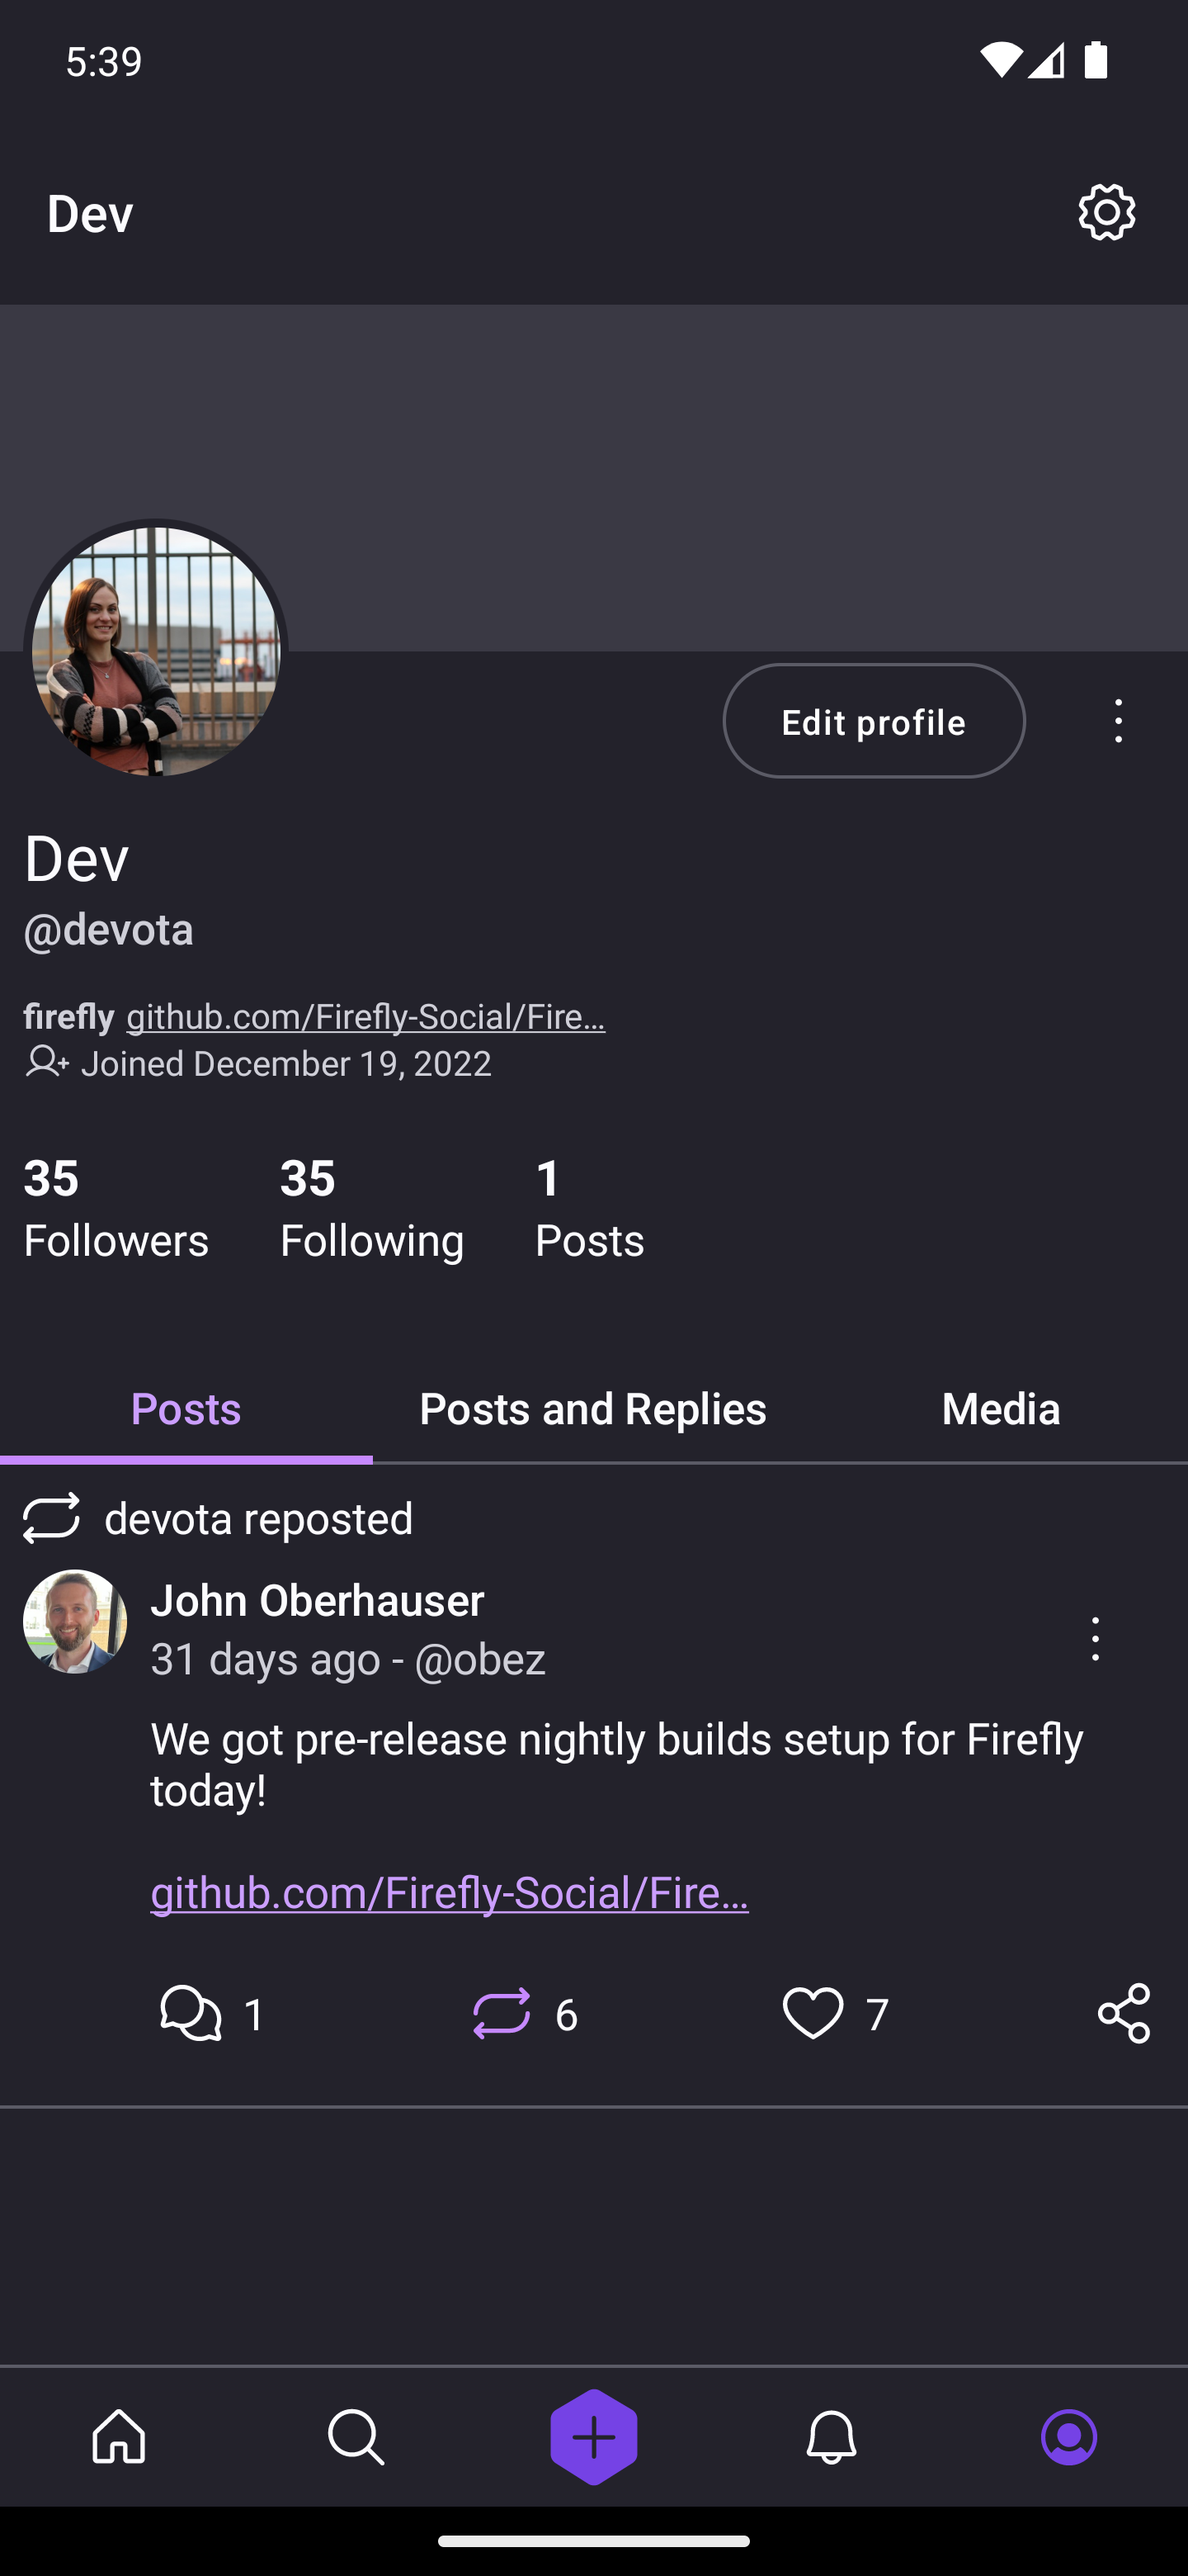
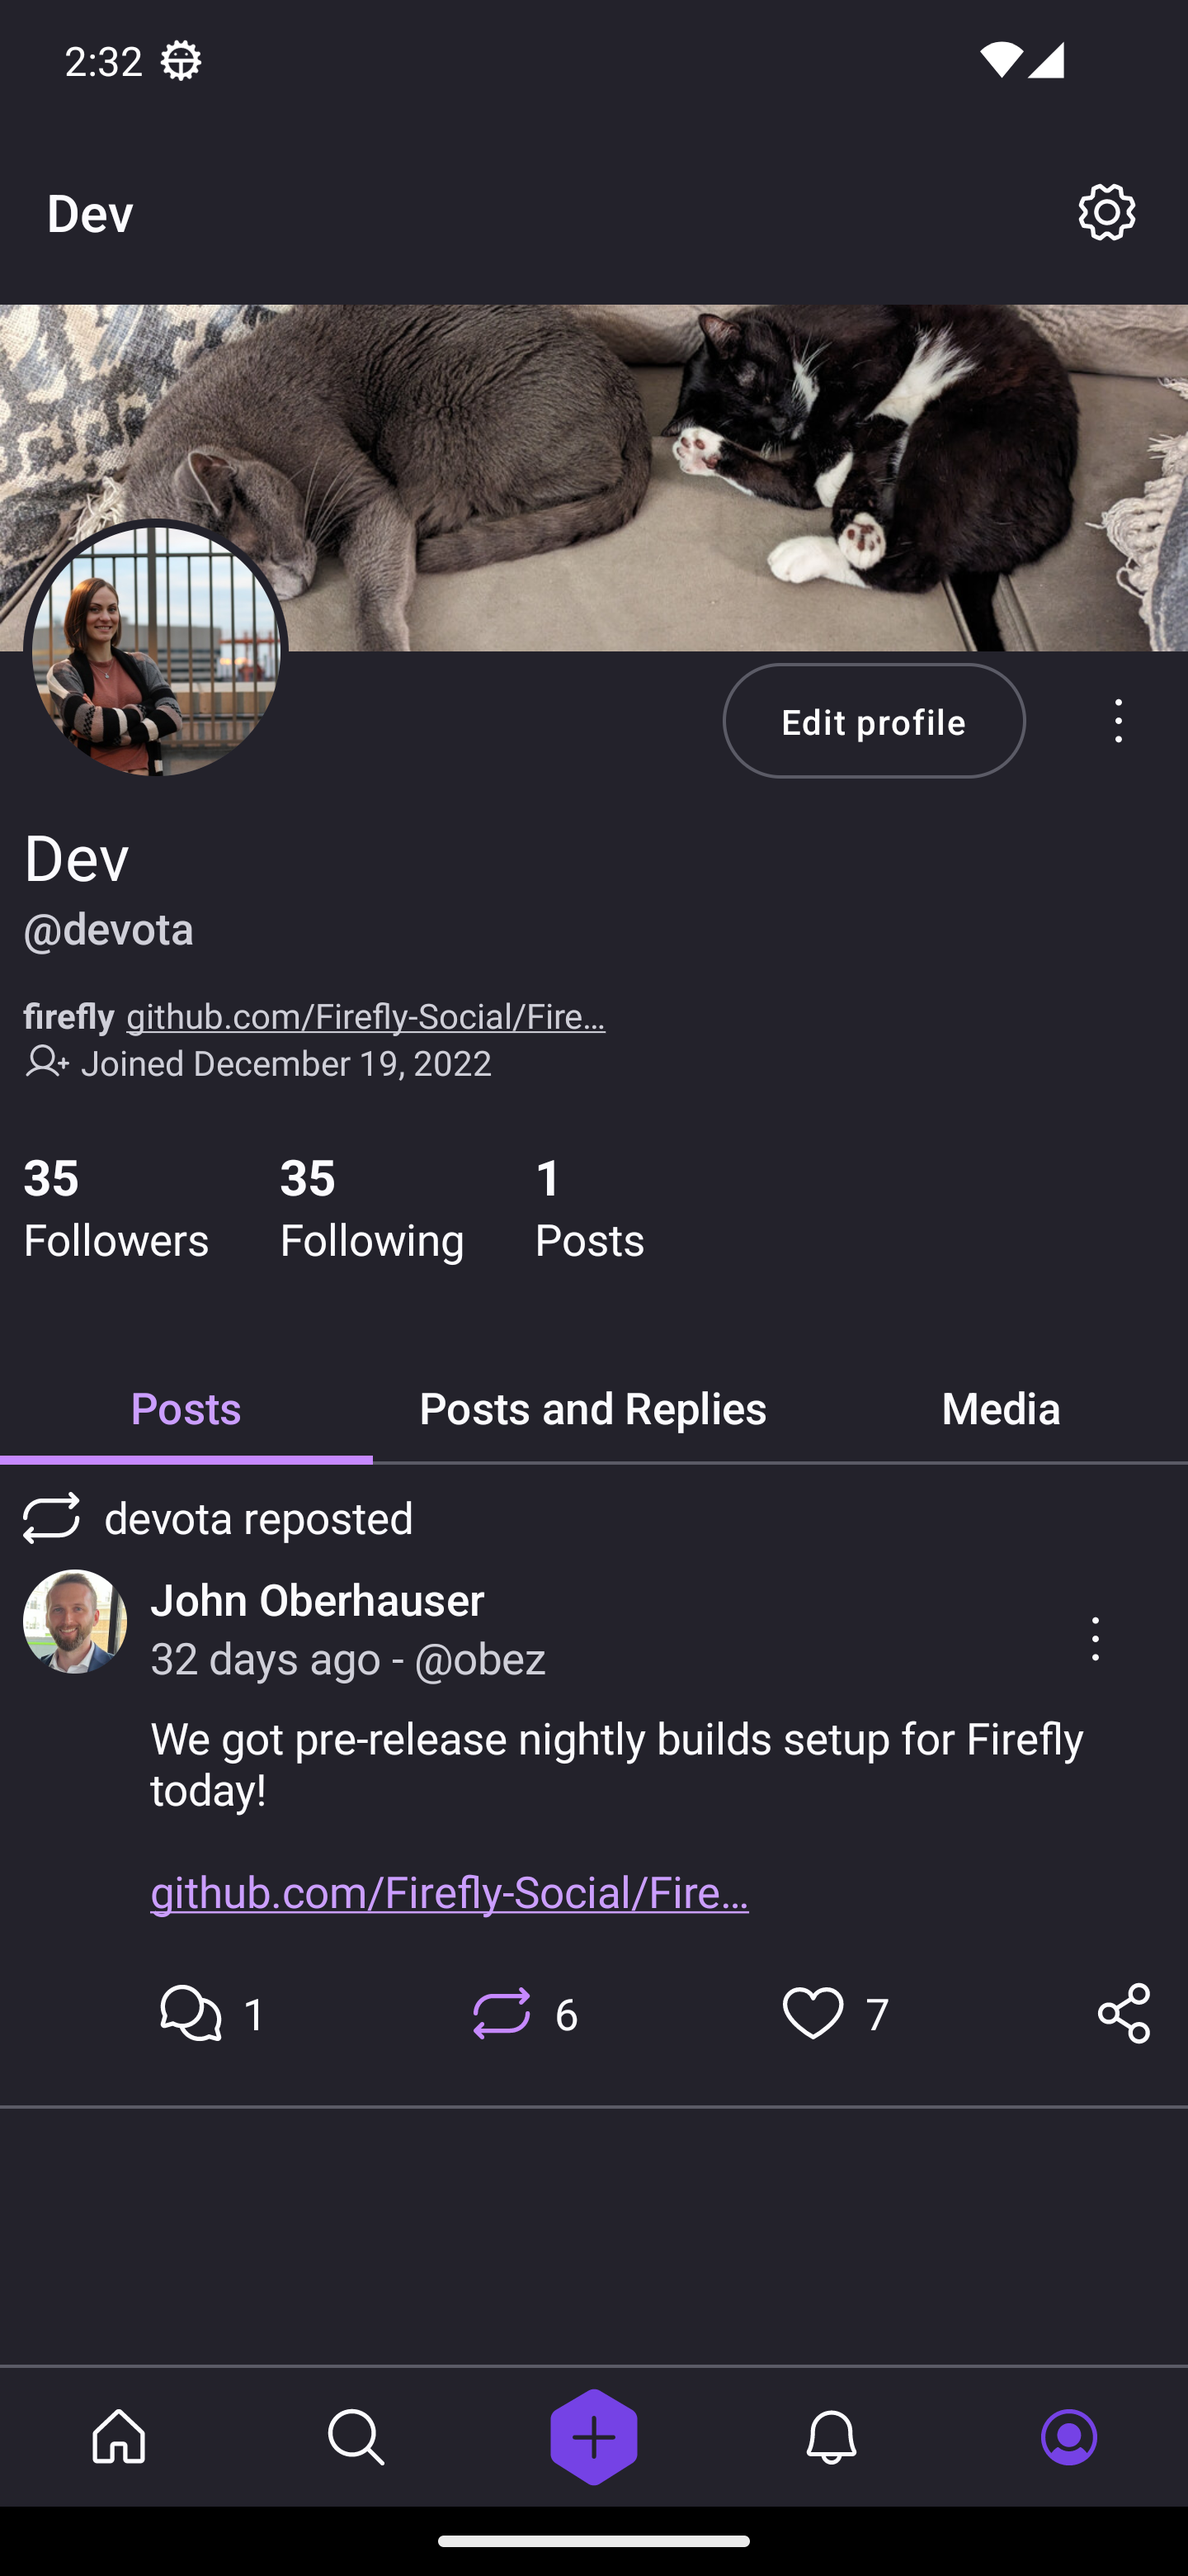
New profile screenshot and readme updates

Changed region(s): [[0.0, 0.0933, 1.0, 0.2798], [0.125, 0.0, 0.1875, 0.0311], [0.9062, 0.0, 0.9375, 0.0311]]

diff --git a/README.md b/README.md
@@ -4,9 +4,9 @@ A [Mastodon](https://joinmastodon.org/) client for Android, implemented with Jet
 - [Download an APK](https://github.com/Firefly-Social/Firefly/releases) from our latest pre-release
 - Build and install from source using Android Studio
 
-|Feed|Profile|Search|
-|--|--|--|
-|<img src="assets/feed_screenshot.png" height="600">|<img src="assets/profile_screenshot.png" height="600">|<img src="assets/search_screenshot.png" height="600">|
+| Feed                                                | Profile                                                | Search                                                | New Post                                                |
+|-----------------------------------------------------|--------------------------------------------------------|-------------------------------------------------------|---------------------------------------------------------|
+| <img src="assets/feed_screenshot.png" height="600"> | <img src="assets/profile_screenshot.png" height="600"> | <img src="assets/search_screenshot.png" height="600"> | <img src="assets/new_post_screenshot.png" height="600"> |
 
 ## Features Roadmap
 - Custom emojis
